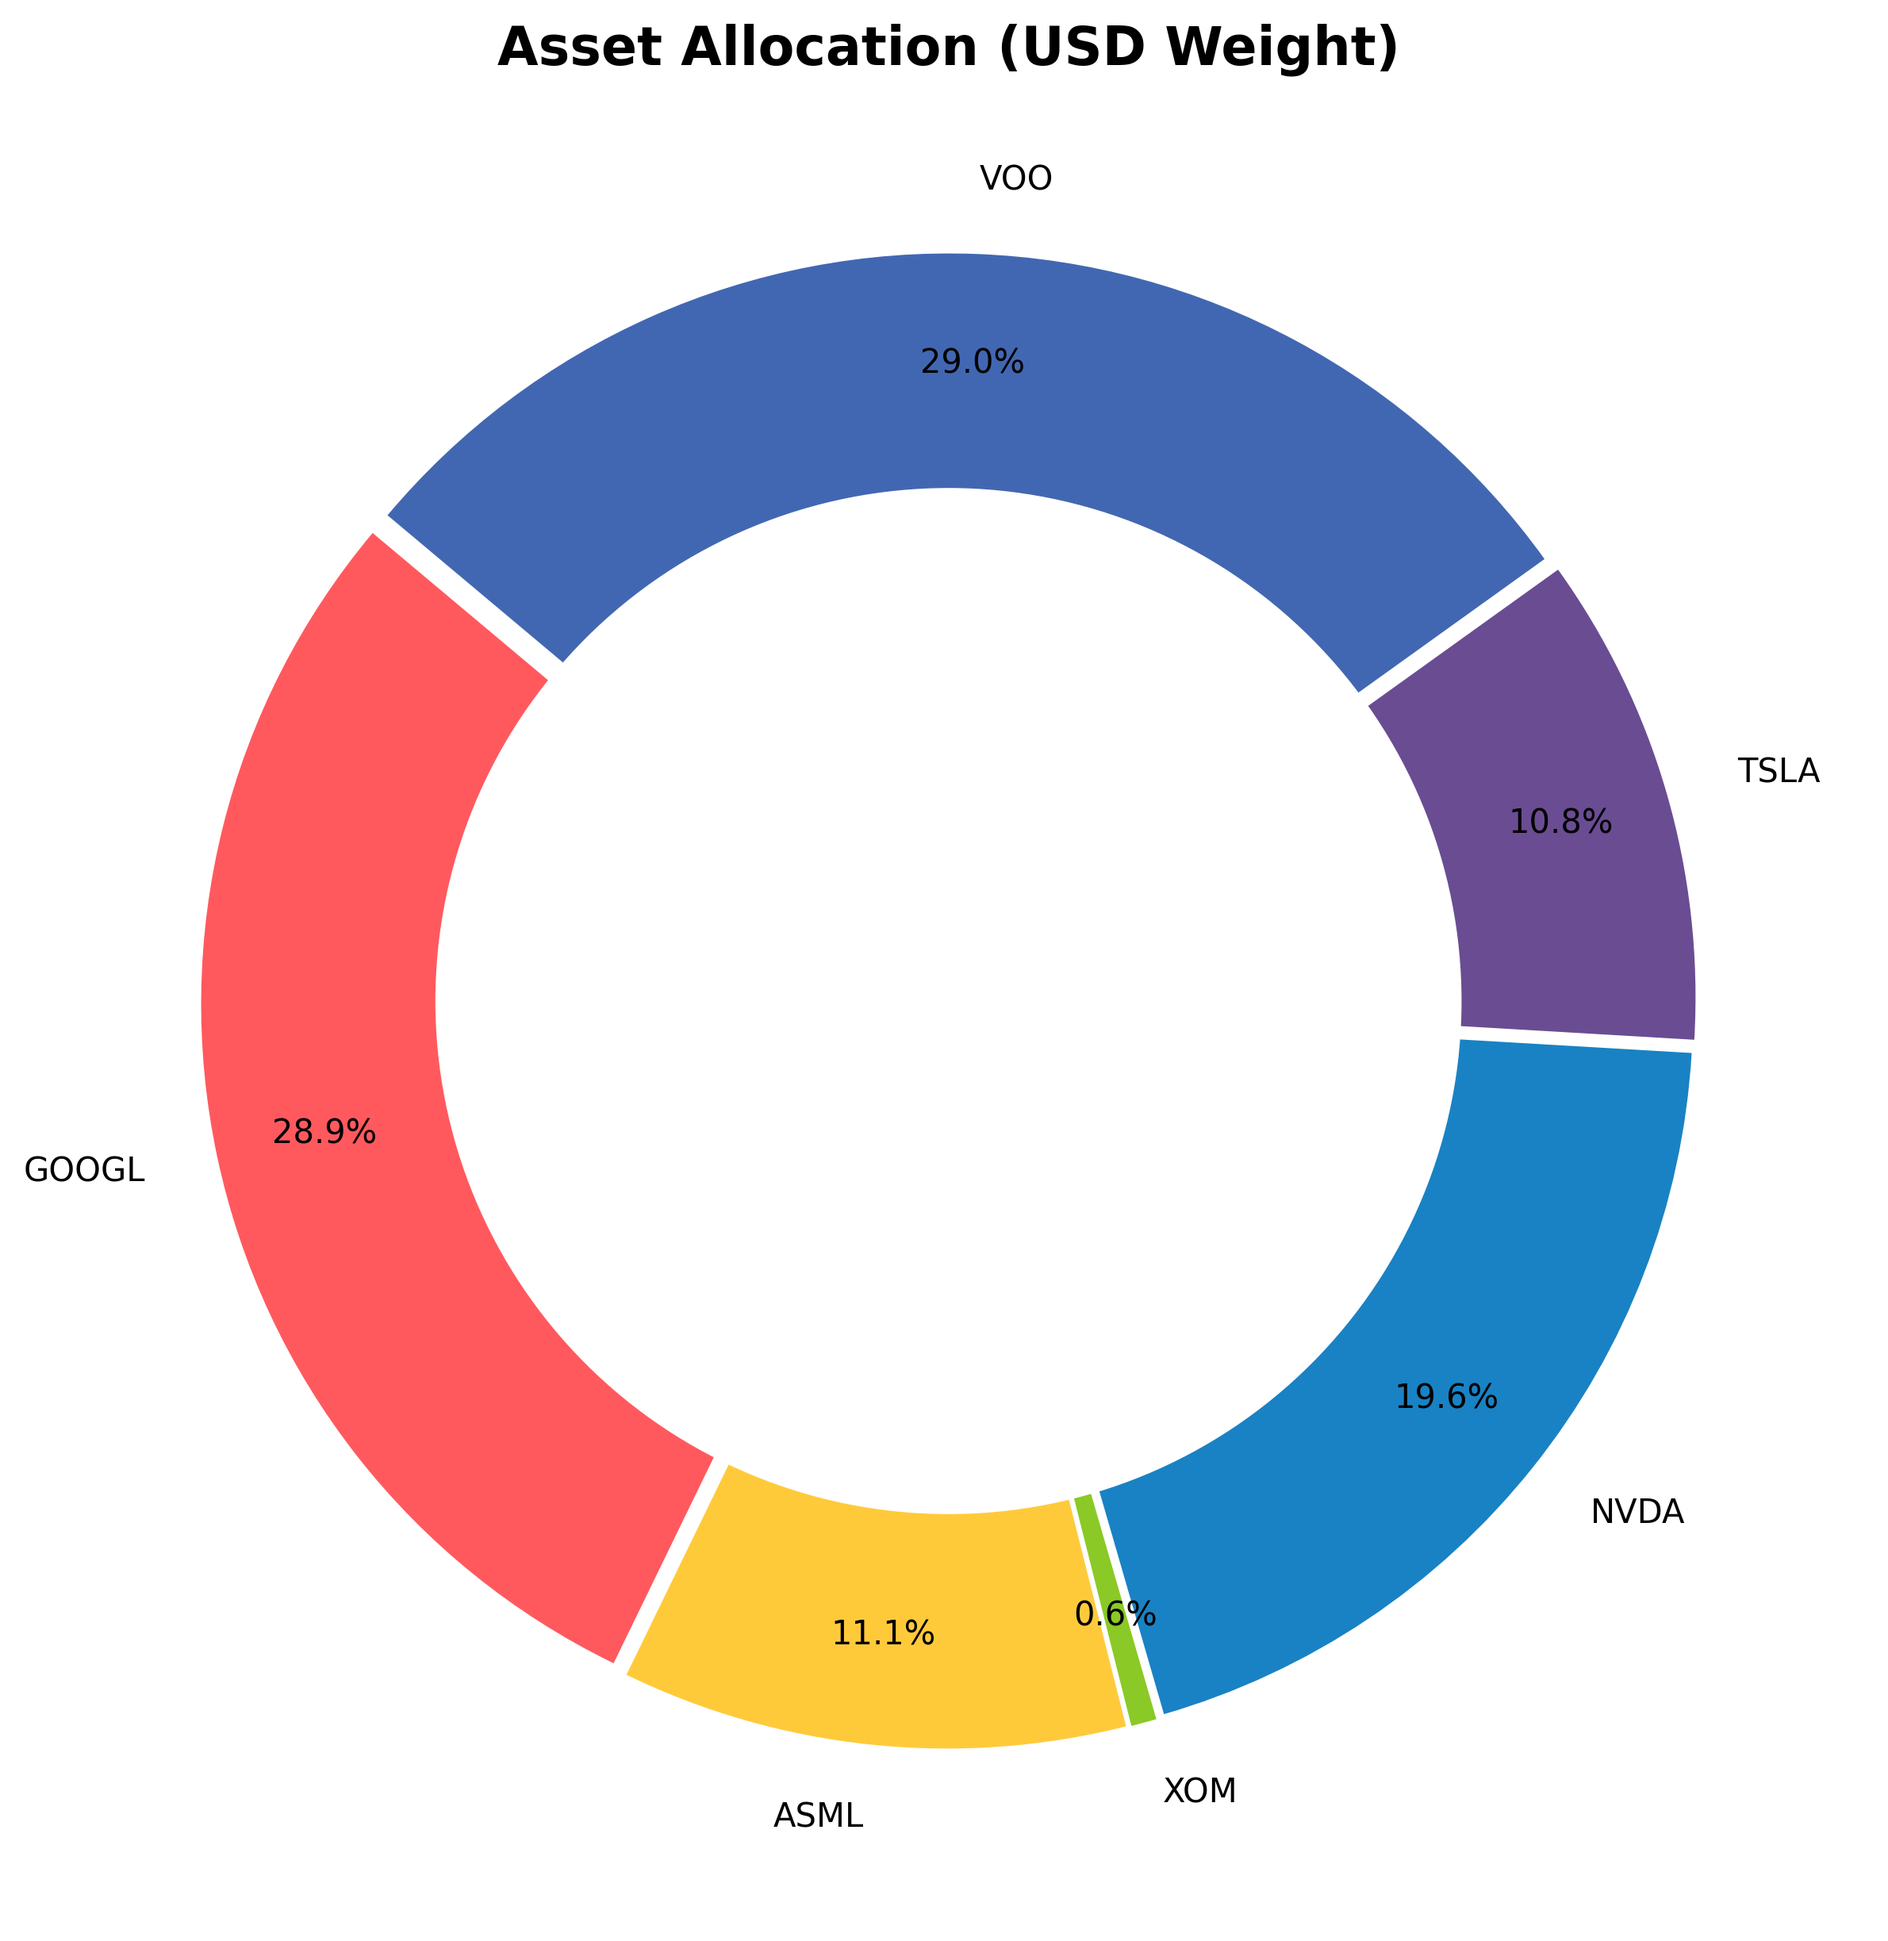
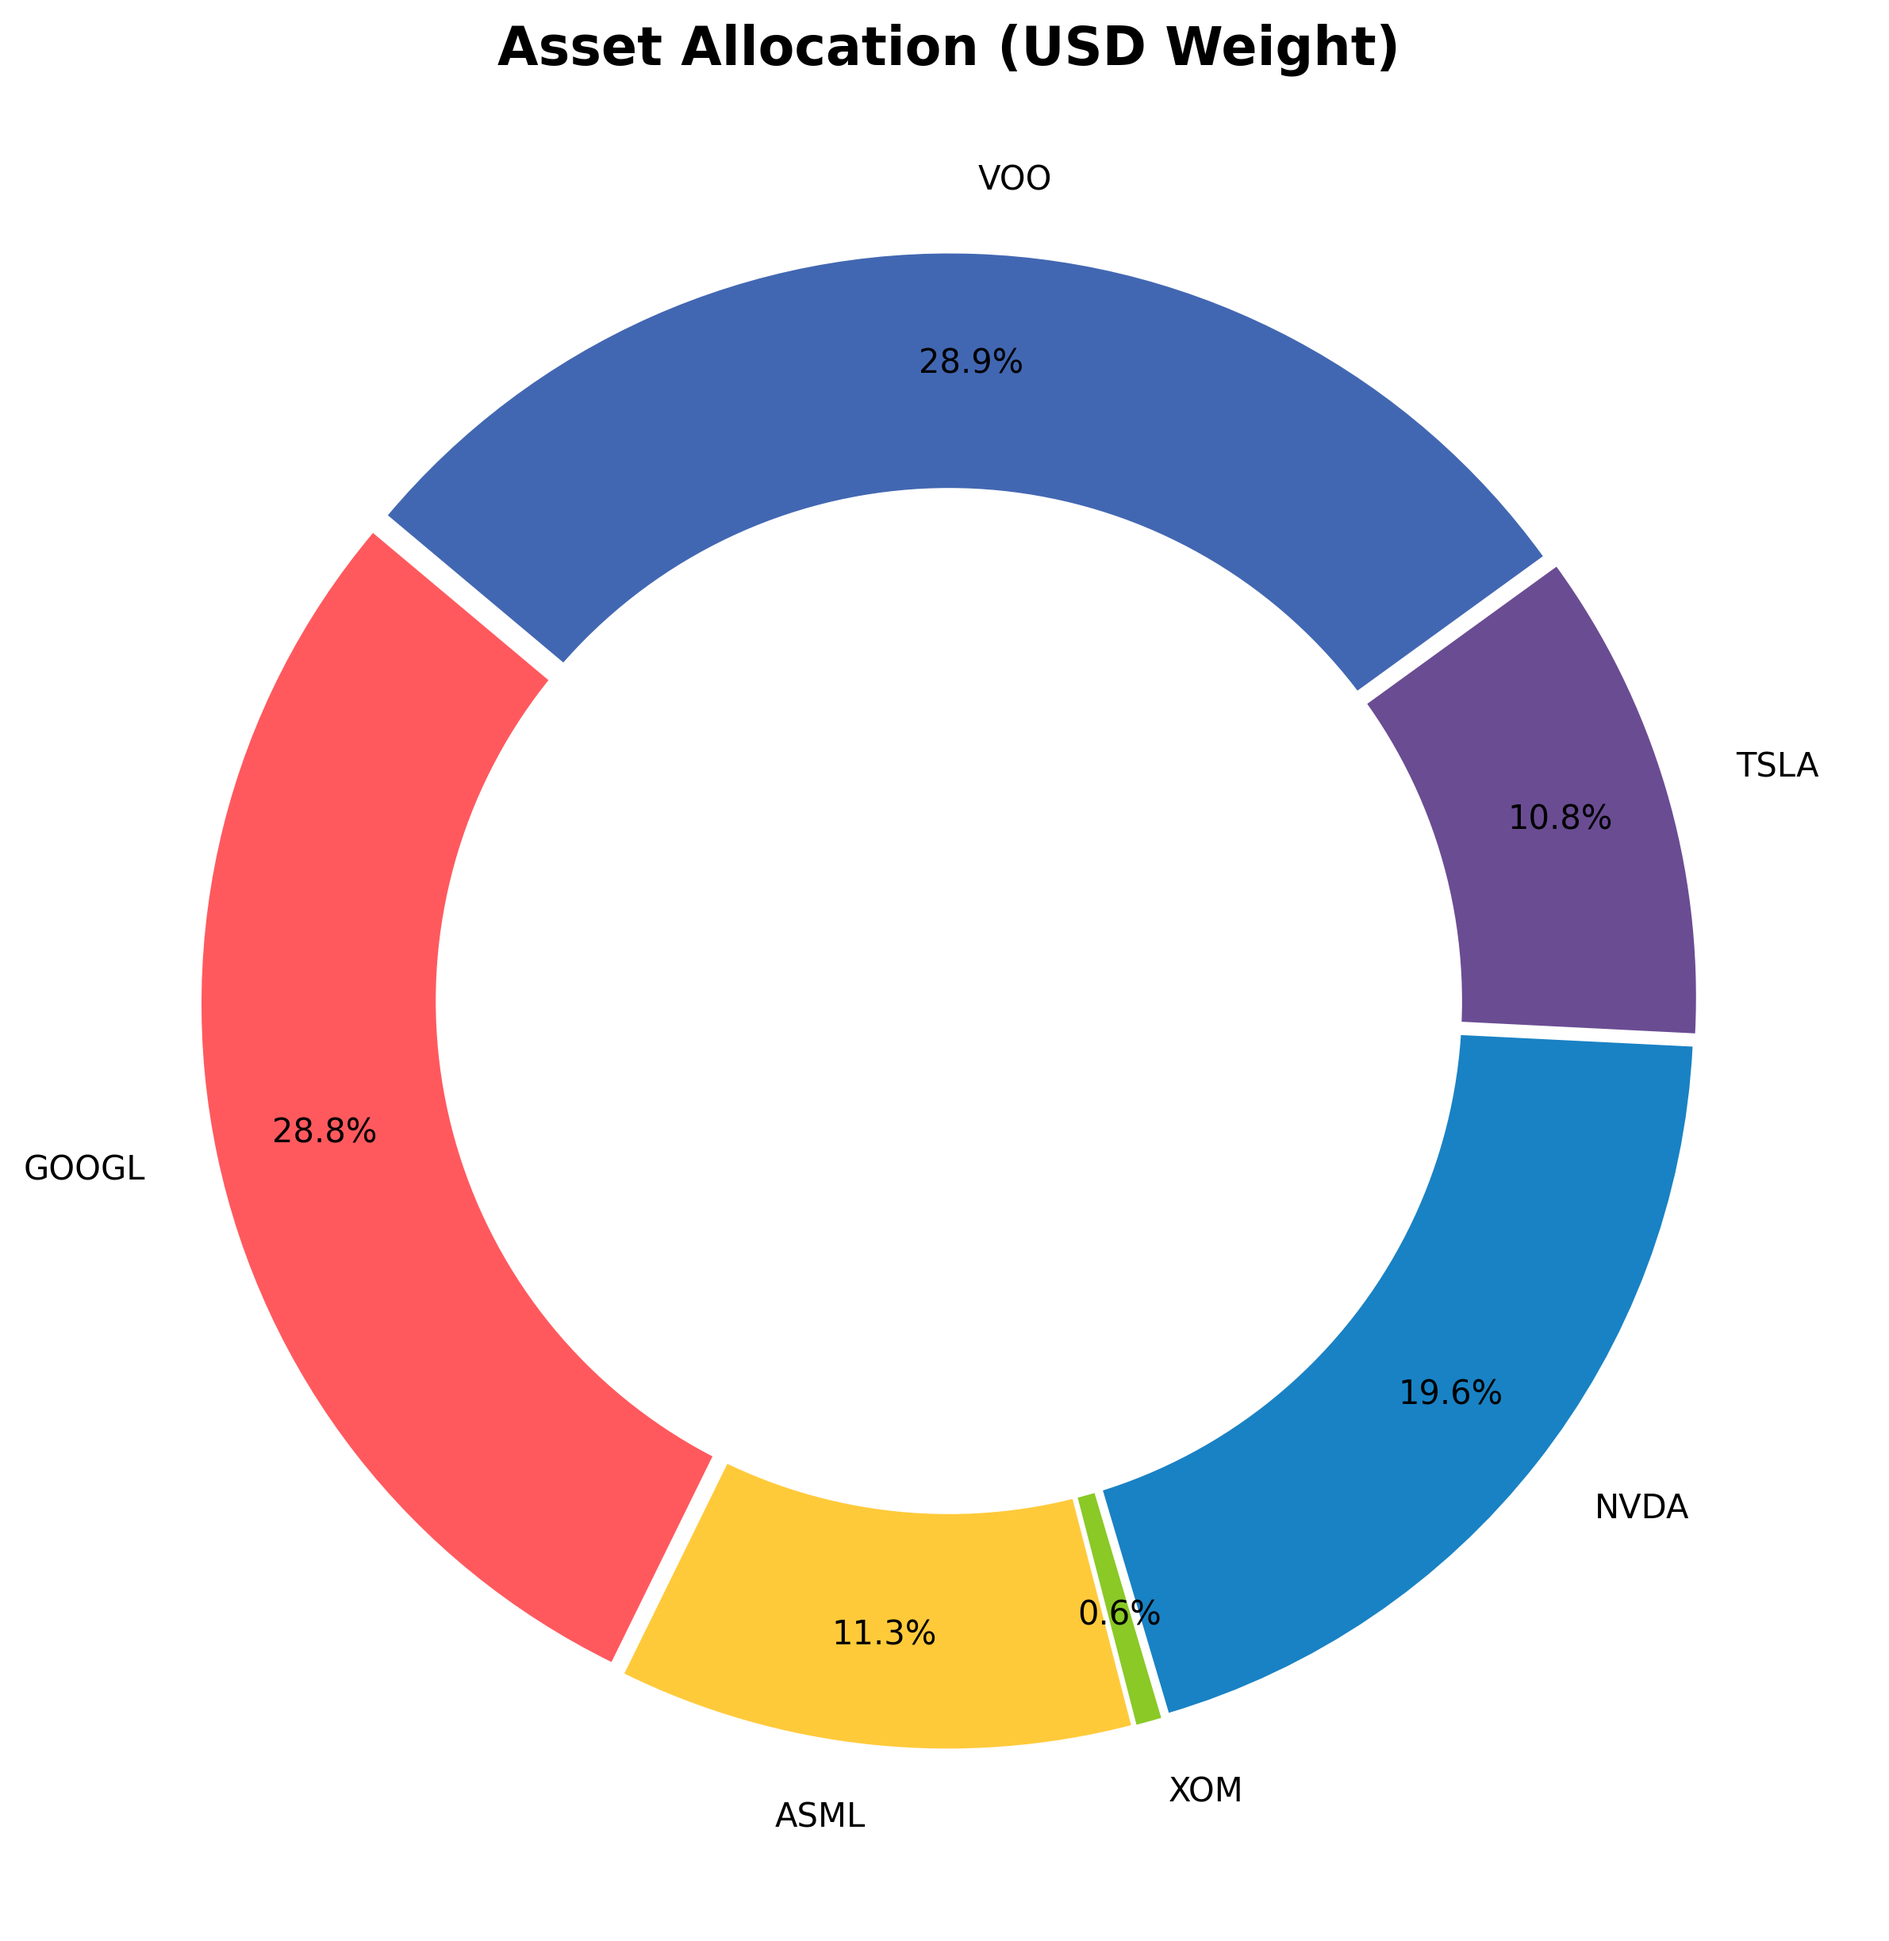
System Run: Analytics & Archive Update [skip ci]

diff --git a/README.md b/README.md
@@ -1,23 +1,23 @@
 # 📊 Portfolio Dashboard | מעקב תיק השקעות
-**Last Update:** 29/07/2026 20:19 | **USD/ILS:** ₪3.074
+**Last Update:** 29/07/2026 22:24 | **USD/ILS:** ₪3.067
 
 ## 💰 Portfolio Summary | סיכום התיק
 | Metric | Value | נתון |
 | :--- | :--- | :--- |
-| **Current Value** | `₪172,372` | **שווי נוכחי** |
-| **Total Invested** | `₪131,782` | **סך השקעה** |
-| **Total Profit/Loss** | `+30.80%` (₪40,591) | **רווח/הפסד כולל** |
-| **Daily Change** | `-0.77%` | **שינוי יומי** |
+| **Current Value** | `₪172,180` | **שווי נוכחי** |
+| **Total Invested** | `₪131,473` | **סך השקעה** |
+| **Total Profit/Loss** | `+30.96%` (₪40,707) | **רווח/הפסד כולל** |
+| **Daily Change** | `-0.41%` | **שינוי יומי** |
 
 ## 📜 Holdings | פירוט החזקות
 | Ticker | Shares | Avg. Cost | Current Price | P&L % | P&L ILS |
 | :--- | :--- | :--- | :--- | :--- | :--- |
-| GOOGL | 48 | $187.99 | $337.73 | 🟢 +79.65% | ₪22,094 |
-| ASML | 4 | $934.51 | $1,560.35 | 🟢 +66.97% | ₪7,695 |
-| XOM | 2 | $126.08 | $157.46 | 🟢 +24.89% | ₪193 |
-| NVDA | 57 | $148.62 | $192.63 | 🟢 +29.61% | ₪7,711 |
-| TSLA | 20 | $436.45 | $303.84 | 🔴 -30.38% | ₪-8,153 |
-| VOO | 24 | $527.38 | $677.17 | 🟢 +28.40% | ₪11,051 |
+| GOOGL | 48 | $187.99 | $337.43 | 🟢 +79.49% | ₪21,998 |
+| ASML | 4 | $934.51 | $1,585.28 | 🟢 +69.64% | ₪7,983 |
+| XOM | 2 | $126.08 | $156.29 | 🟢 +23.96% | ₪185 |
+| NVDA | 57 | $148.62 | $193.25 | 🟢 +30.03% | ₪7,801 |
+| TSLA | 20 | $436.45 | $302.51 | 🔴 -30.69% | ₪-8,215 |
+| VOO | 24 | $527.38 | $676.22 | 🟢 +28.22% | ₪10,955 |
 
 ## 📈 Charts | גרפים
 ![Performance](./data_hub/portfolio_performance.png)
